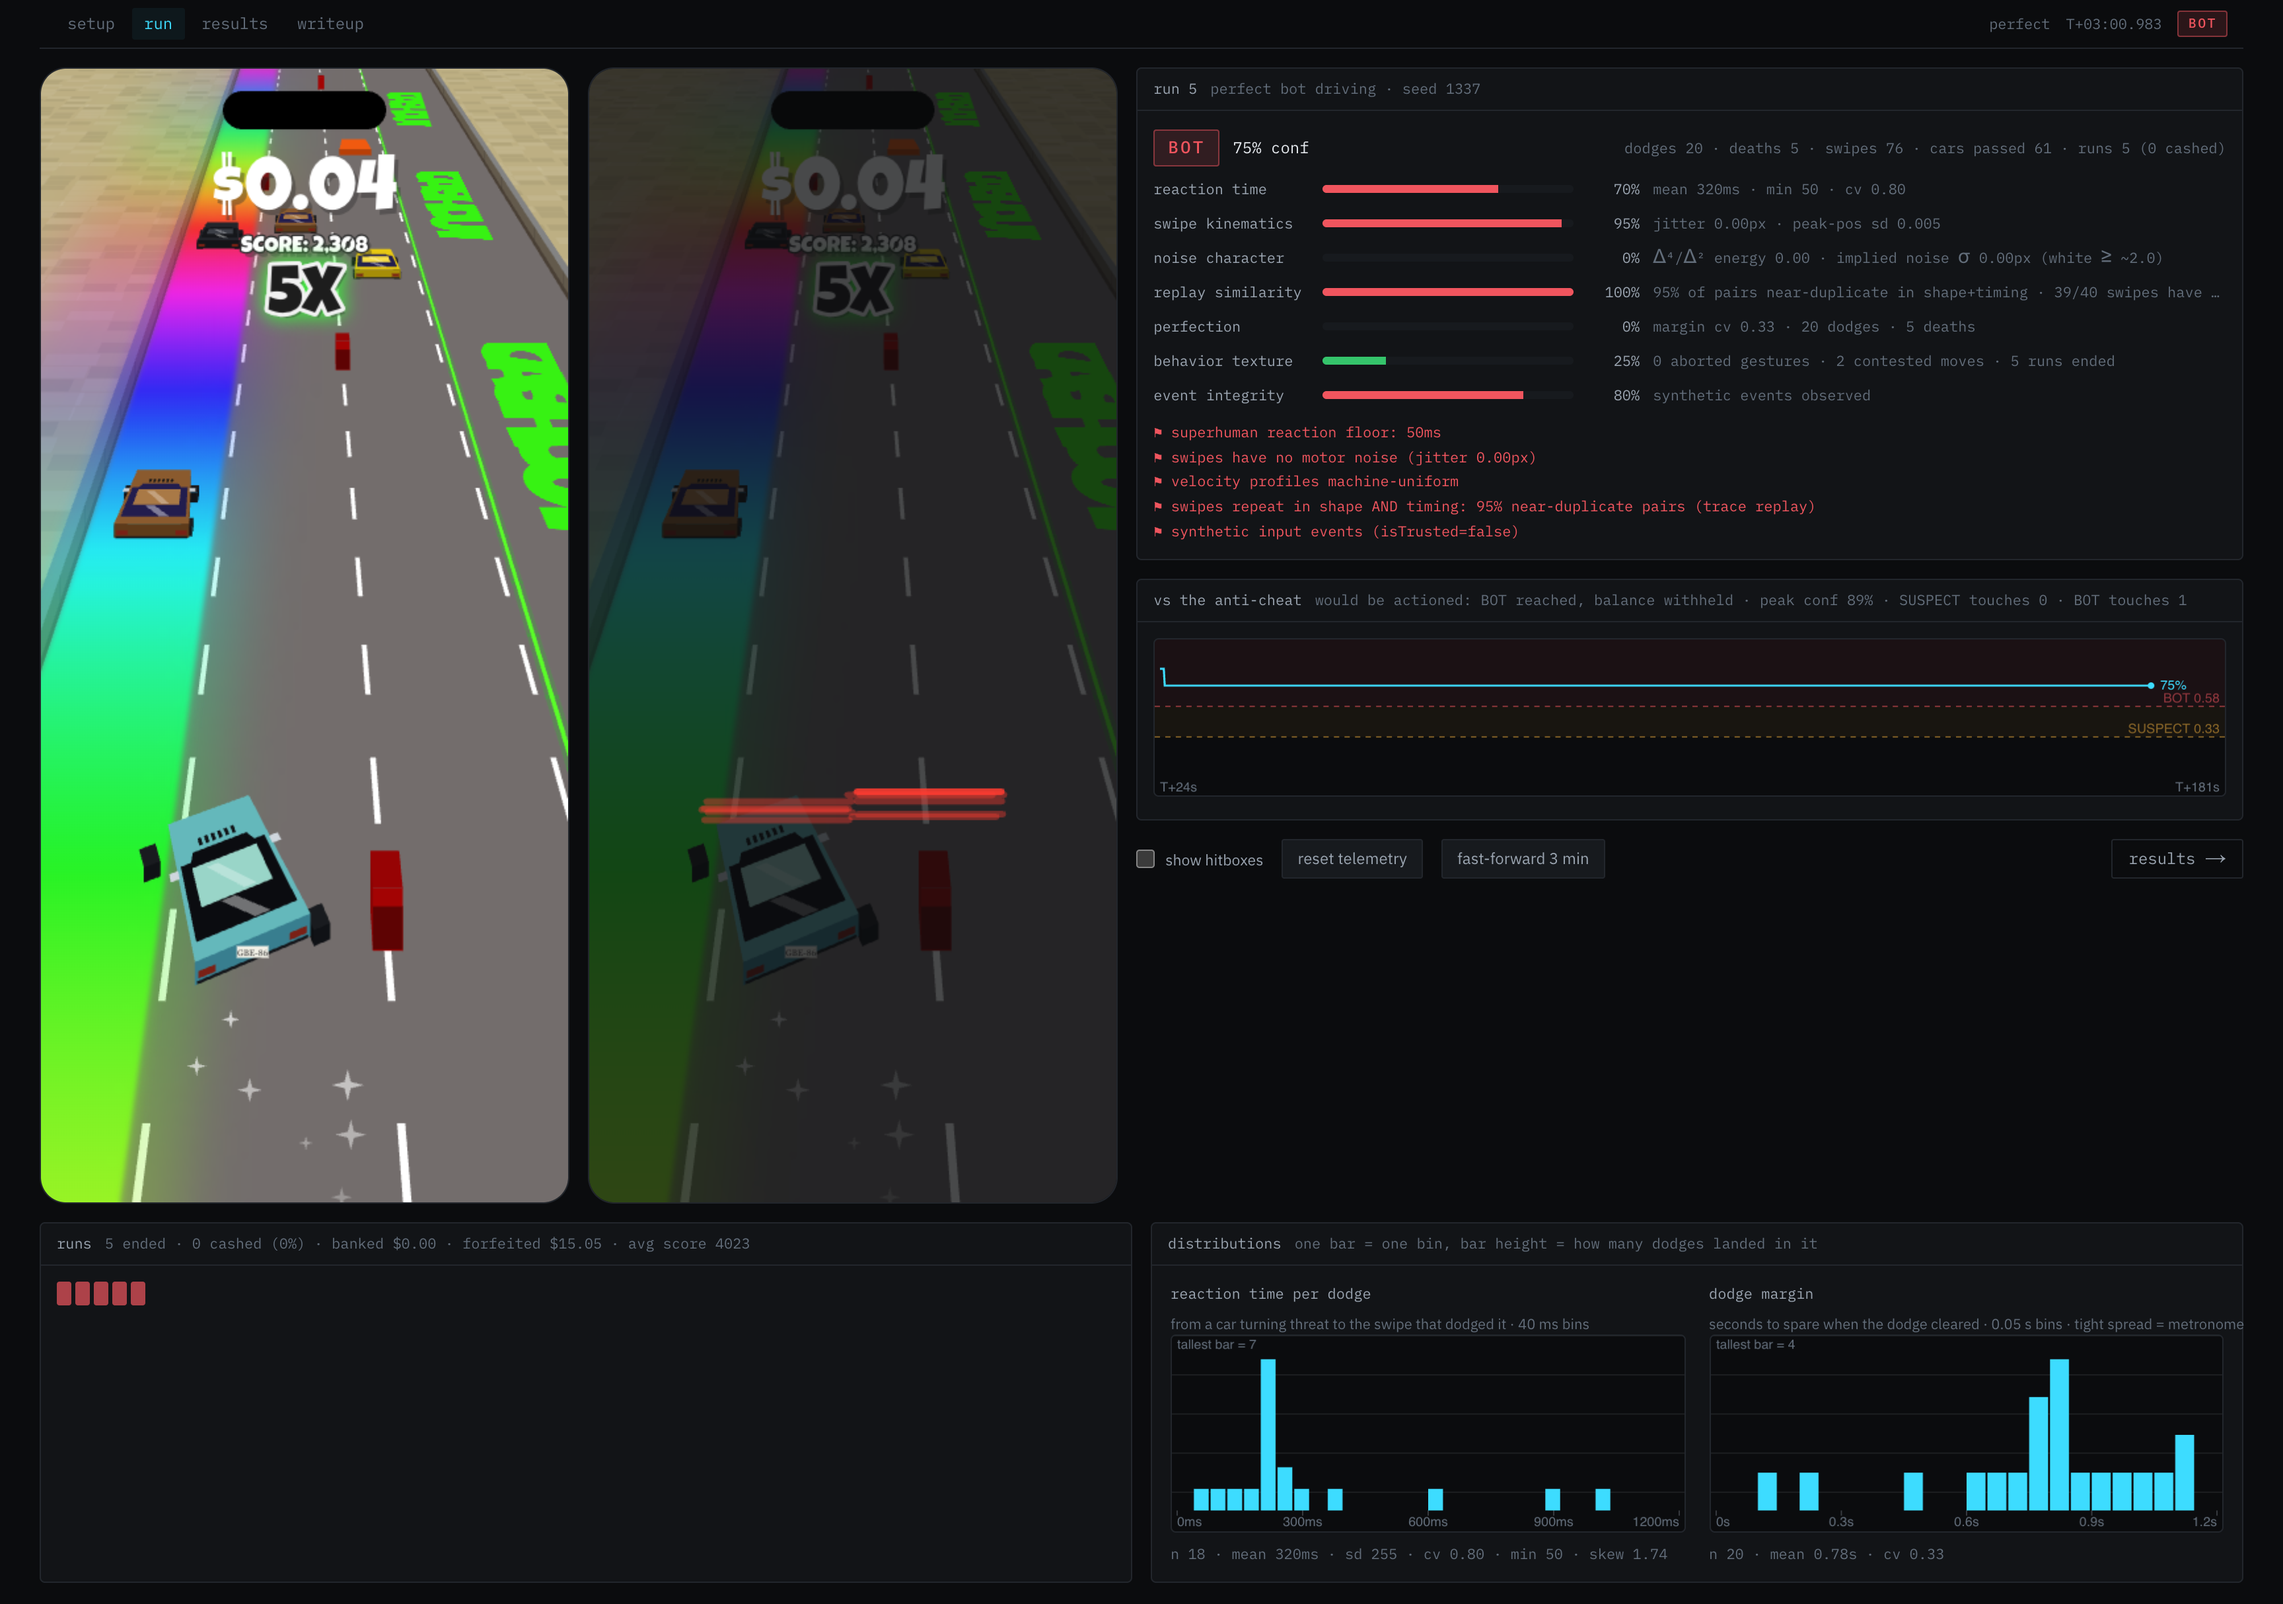
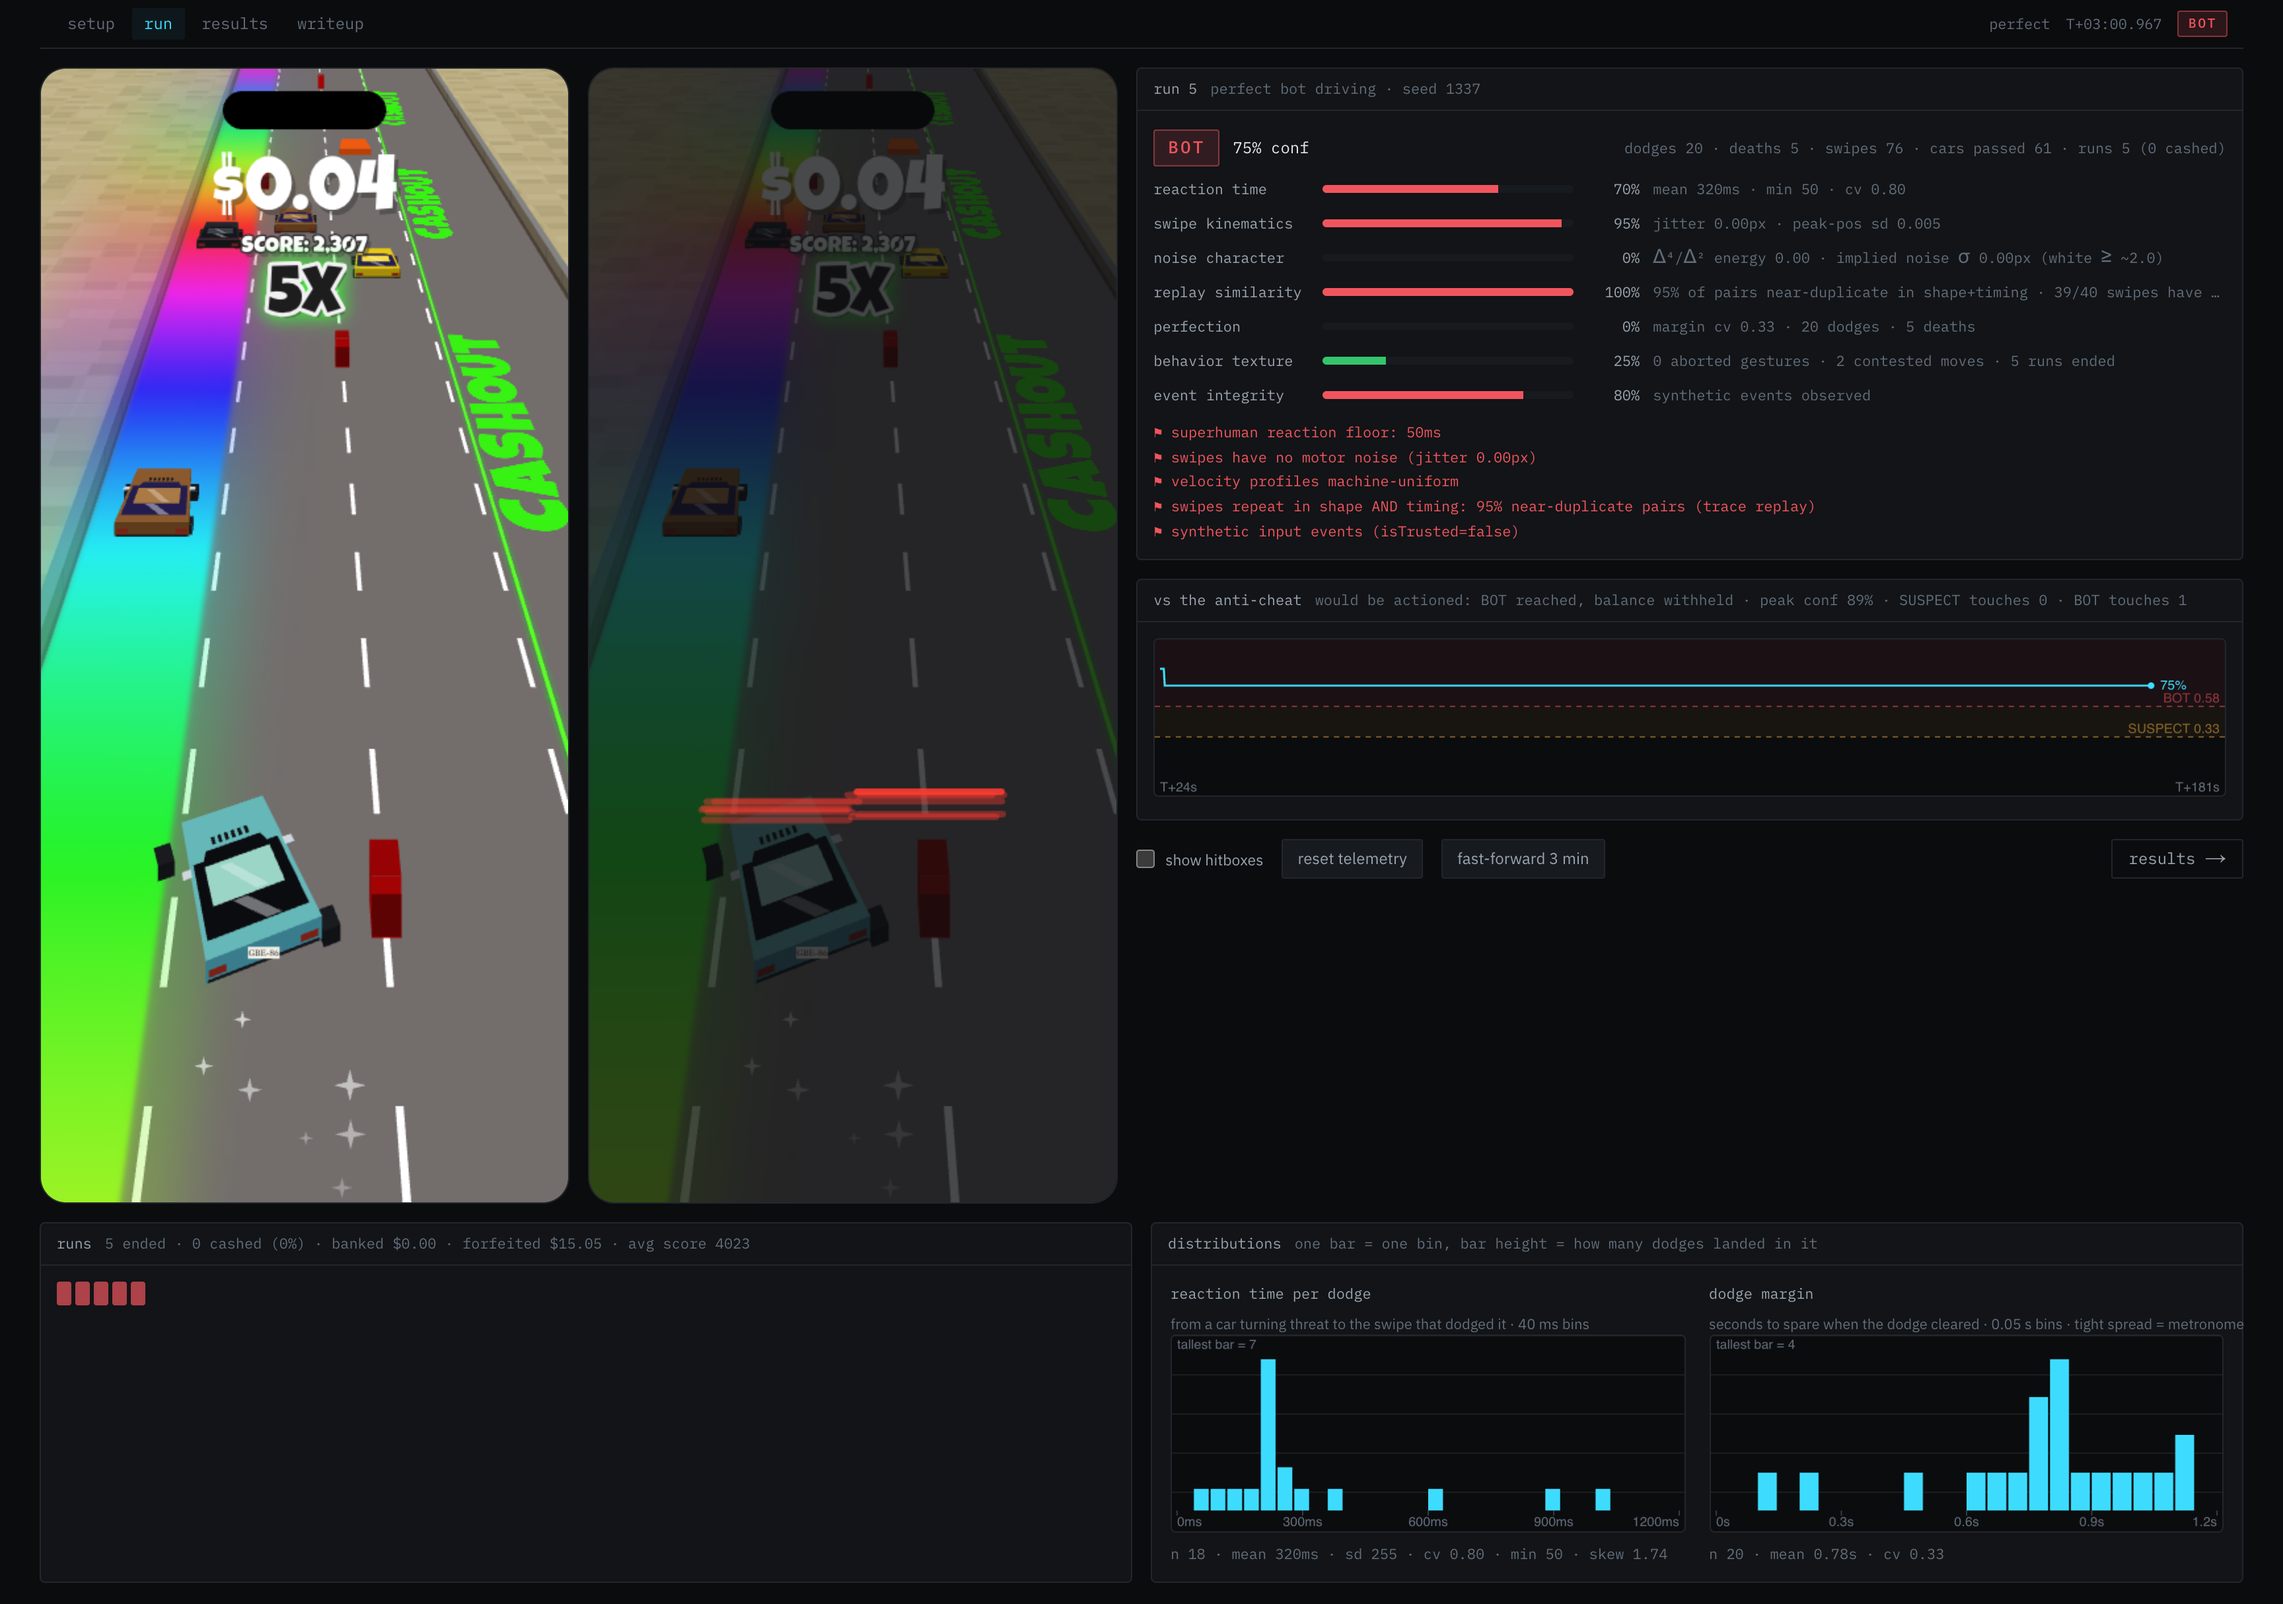
make the CASHOUT paint legible: separate, road-facing, reference-sized glyphs
The road texture drew each rotated letter ~150 px wide on a 91 px pitch, so
every glyph overprinted 40% of its neighbor and the far repeats read as
garbled double-struck shapes. Letters now render at the size measured from
the recording (stroke band 0.52 lane units, em 126), on a 4.8 z pitch with
tops toward the road and C at the far end, all matching the recorded paint.
Compare stills and docs screenshots recaptured.

diff --git a/lib/ui/renderer.ts b/lib/ui/renderer.ts
@@ -42,7 +42,7 @@ const CAM_OMEGA = 14, CAM_ZETA = 0.5;
 const GOLD = { body: "#cda21a", dark: "#8a6c09", roof: "#ecc746", glass: "#0b0c10" };
 
 // road-space texture for the flat CASHOUT lettering
-const CASH = { word: "CASHOUT", slot: 4.6, period: 62, latHalf: 0.48, latC: 3.17, texW: 200, texH: 640, em: 215 };
+const CASH = { word: "CASHOUT", slot: 4.8, period: 62, latHalf: 0.48, latC: 3.0, texW: 200, texH: 640, em: 126 };
 
 export interface Particle {
   x: number; y: number; vx: number; vy: number;
@@ -472,8 +472,9 @@ export class Renderer {
       const zc = (i + 0.5) * C.slot;
       t.save();
       t.translate(C.texW / 2, ((wordLen - zc) / wordLen) * C.texH);
-      t.rotate(Math.PI / 2);
-      t.fillText(C.word[C.word.length - 1 - i], 0, 0);
+      // tops toward the road, like the reference paint
+      t.rotate(-Math.PI / 2);
+      t.fillText(C.word[i], 0, 0);
       t.restore();
     }
     this.cashTex = cv;
